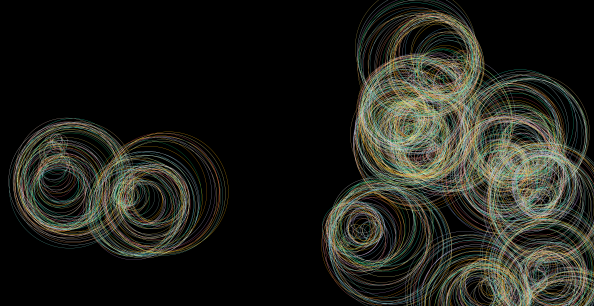
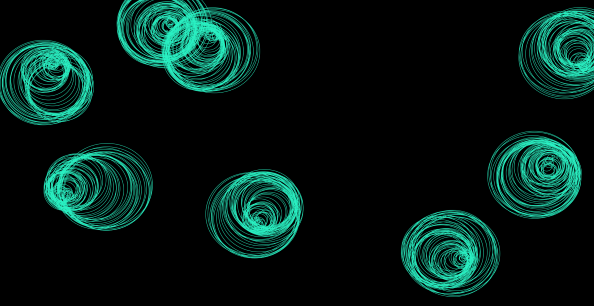
ringid valmis

diff --git a/kunst.py b/kunst.py
@@ -825,38 +825,40 @@ def joonedkeskelt(ctx,WIDTH,HEIGHT):
 def ringid_valged(ctx,WIDTH,HEIGHT):
     x_telje_suhe = WIDTH / (3*1980)#skaleerimissuhe x ja y telje jaoks
     y_telje_suhe = HEIGHT / (3*1020)
-    x_ja_y_telje_suhe = (x_telje_suhe+y_telje_suhe)/2      
-    for i in range(20):
-        r = int(10* x_ja_y_telje_suhe) #algraadius
-        x = random.randint(1,int(3*1980* x_telje_suhe)) #juhuslikud alguspunktidele, korrutatud skaleerimisuhtega
-        y = random.randint(1,int(3*1020* y_telje_suhe)) #juhuslikud alguspunktidele , korrutatud skaleerimisuhtega
-        for l in range(100):
+    x_ja_y_telje_suhe = (x_telje_suhe+y_telje_suhe)/2
+    a,b = random.randrange(14,22),random.randrange(50,100)#tsüklite arvude muutujad, a ringide arv, b on välisringide arv ja lõplik suurus
+    for i in range(a):
+        r = int(10*x_ja_y_telje_suhe) #algraadius
+        x = random.randint(1,int(3*1980* x_ja_y_telje_suhe)) #juhuslikud alguspunktidele, korrutatud skaleerimisuhtega
+        y = random.randint(1,int(3*1980* x_ja_y_telje_suhe)) #juhuslikud alguspunktidele , korrutatud skaleerimisuhtega
+        for l in range(b):
             ctx.set_source_rgb(1, 1, 1)
             ctx.arc(x, y, r, 0, 2*math.pi) #kaare koordinaadid(x,y koordinaat, raaidus, nurk 1 ja nurk 2)
-            ctx.set_line_width(4*x_ja_y_telje_suhe) #joone laius
+            ctx.set_line_width(6*x_ja_y_telje_suhe) #joone laius
             ctx.stroke()#kannab kanvasele
-            r += int(6* x_ja_y_telje_suhe)
-            x += random.randint(int(-50* x_telje_suhe),int(50* x_telje_suhe)) #juhuslikud nihe algpunktidele
-            y += random.randint(int(-50* y_telje_suhe),int(50* y_telje_suhe)) #juhuslikud nihe algpunktidele
+            r += int(6*x_ja_y_telje_suhe)
+            x += random.randint(int(-35* x_telje_suhe),int(35* x_telje_suhe)) #juhuslikud nihe algpunktidele
+            y += random.randint(int(-35* y_telje_suhe),int(35* y_telje_suhe)) #juhuslikud nihe algpunktidele
             
 def ringid_värvilised(ctx,WIDTH,HEIGHT):
     x_telje_suhe = WIDTH / (3*1980)#skaleerimissuhe x ja y telje jaoks
     y_telje_suhe = HEIGHT / (3*1020)
-    x_ja_y_telje_suhe = (x_telje_suhe+y_telje_suhe)/2      
-    for i in range(20):
+    x_ja_y_telje_suhe = (x_telje_suhe+y_telje_suhe)/2
+    a,b = random.randrange(14,22),random.randrange(50,100)
+    line_color = random.choice(list_of_colors) #juhuvärvide kogust värvi määramine
+    line_r, line_g, line_b = line_color[0]/255.0, line_color[1]/255.0, line_color[2]/255.0
+    ctx.set_source_rgb(line_r, line_g, line_b)
+    for i in range(a):
         r = int(10* x_ja_y_telje_suhe) #algraadius
         x = random.randint(1,int(3*1980* x_telje_suhe)) #juhuslikud alguspunktidele, korrutatud skaleerimisuhtega
-        y = random.randint(1,int(3*1020* y_telje_suhe)) #juhuslikud alguspunktidele , korrutatud skaleerimisuhtega
-        for l in range(100):
-            line_color = random.choice(list_of_colors) #juhuvärvide kogust värvi määramine
-            line_r, line_g, line_b = line_color[0]/255.0, line_color[1]/255.0, line_color[2]/255.0
-            ctx.set_source_rgb(line_r, line_g, line_b)
+        y = random.randint(1,int(3*1980* y_telje_suhe)) #juhuslikud alguspunktidele , korrutatud skaleerimisuhtega
+        for l in range(b):
             ctx.arc(x, y, r, 0, 2*math.pi) #kaare koordinaadid(x,y koordinaat, raaidus, nurk 1 ja nurk 2)
-            ctx.set_line_width(4*x_ja_y_telje_suhe) #joone laius
+            ctx.set_line_width(6*x_ja_y_telje_suhe) #joone laius
             ctx.stroke()#kannab kanvasele
             r += int(6* x_ja_y_telje_suhe) #raadiusemuut
-            x += random.randint(int(-50* x_telje_suhe),int(50* x_telje_suhe)) #juhuslikud nihe algpunktidele
-            y += random.randint(int(-50* y_telje_suhe),int(50* y_telje_suhe)) #juhuslikud nihe algpunktidele
+            x += random.randint(int(-35* x_telje_suhe),int(35* x_telje_suhe)) #juhuslikud nihe algpunktidele
+            y += random.randint(int(-35* y_telje_suhe),int(35* y_telje_suhe)) #juhuslikud nihe algpunktidele
                 
             
 def spiderpuff(ctx,WIDTH,HEIGHT):
